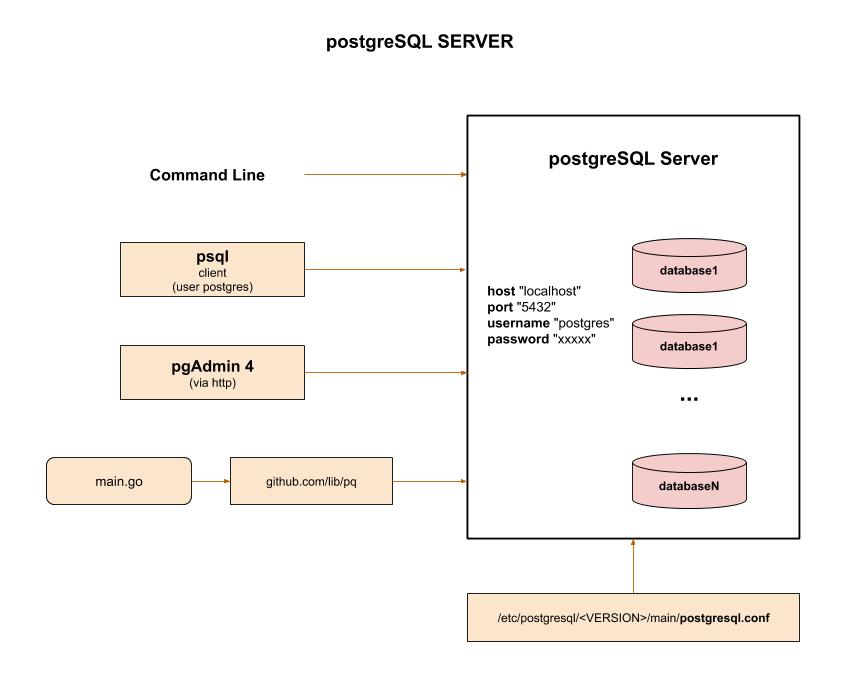
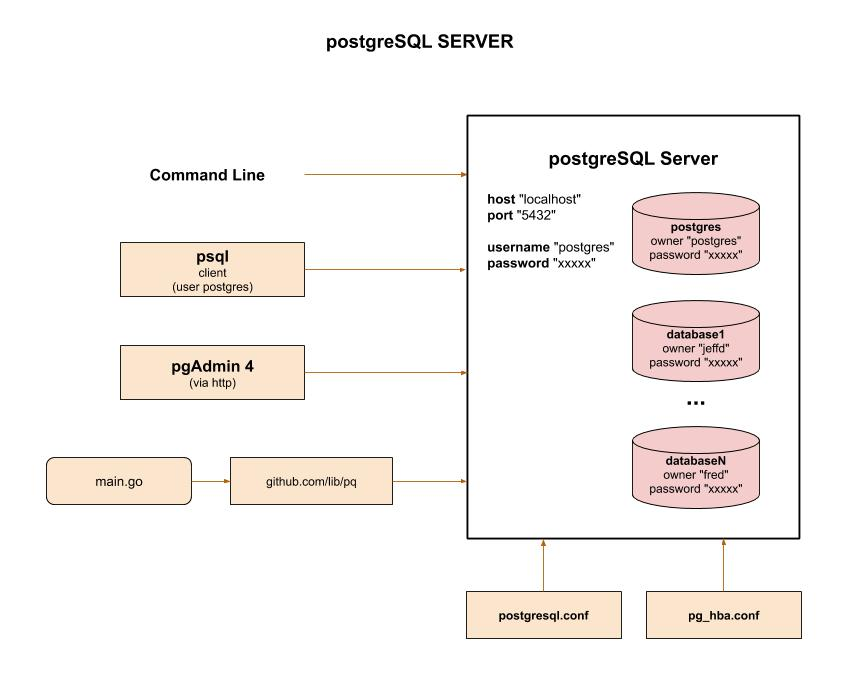
updating postgreSQL

Changed region(s): [[0.5825, 0.2771, 0.9198, 0.7698], [0.5519, 0.8622, 0.9505, 0.9545]]

diff --git a/software/development/software-architectures/database/postgreSQL-cheat-sheet/README.md b/software/development/software-architectures/database/postgreSQL-cheat-sheet/README.md
@@ -8,9 +8,10 @@ tl;dr,
 sudo /etc/init.d/postgresql start
 ps aux | grep -i postgres
 sudo -u postgres psql
-CREATE USER jeffd WITH ENCRYPTED PASSWORD 'password';
 CREATE USER jeffd;
+CREATE USER jeffd WITH ENCRYPTED PASSWORD 'password';
 CREATE DATABASE jeff_db_example OWNER jeffd;
+DROP DATABASE jeff_db_example3;
 \l
 \c jeff_db_example
 CREATE TABLE people (id int primary key not null, first_name text, last_name text);
@@ -105,6 +106,9 @@ Install from [here](https://www.pgadmin.org/download/)
 It will run in your browser such as
 [http://127.0.0.1:50088/browser/](http://127.0.0.1:50088/browser/)
 
+To connect, just use the username `postgres` and the password you
+will create below.
+
 ### CHECK VERSIONS
 
 Server,
@@ -125,40 +129,62 @@ pgadmin,
 pgadmin3 -v
 ```
 
-## CONFIGURE POSTGRES
+## CONFIGURE
 
-You may need to configure depending how you installed.
+The configuration files are,
 
-Enter postgres using psql as user postgres (yeah its a little confusing),
+* pg_hba.conf - Where Authentication is handled
+* postgresql.conf - Server config.
+
+Edit pg_hba.conf (macOS path is second one),
 
 ```bash
-sudo -u postgres psql postgres
-> \password postgres
-> "admin"
-> CREATE EXTENSION adminpack;
-> \q
+sudo su - postgres
+nano /etc/postgresql/10/main/pg_hba.conf
+nano /Library/PostgreSQL/11/data/pg_hba.conf
+```
+Make it look like,
+
+```txt
+# Local networks
+host    all     all     xx.xx.xx.xx/xx  md5
+# Example
+host    all     all     192.168.0.0/24  md5
+host    all     all     127.0.0.0/32    md5
 ```
 
-Check `pg_hba.conf`,
+Edit postgresql.conf (macOS path is second one),
 
 ```bash
-sudo nano /etc/postgresql/<VERSION>/main/pg_hba.conf
-sudo nano /etc/postgresql/10/main/pg_hba.conf
-```
-
-Edit `postgresql.conf`,
-
-```bash
-sudo nano /etc/postgresql/<VERSION>/main/postgresql.conf
+sudo su - postgres
 sudo nano /etc/postgresql/10/main/postgresql.conf
+nano /Library/PostgreSQL/11/data/postgresql.conf
 ```
 
 Replace `listen_addresses = 'localhost'` with `listen_addresses = '*'`
 
-To restart postgres server,
+Restart server and confirm postgres listening on port 5432,
+
+```txt
+netstat -ant | grep 5432
+tcp        0      0 0.0.0.0:5432            0.0.0.0:*               LISTEN
+tcp6       0      0 :::5432                 :::*                    LISTEN
+```
+
+Change both passwords for user postgres and the username postgres
+in psql,
+
+Change user password,
 
 ```bash
-sudo service postgresql restart
+sudo passwd postgres
+```
+
+Then change username in psql password,
+
+```bash
+sudo -u postgres psql
+ALTER USER postgres PASSWORD 'Password';
 ```
 
 ## START/STOP POSTGRESQL SERVER
@@ -170,6 +196,8 @@ ps aux | grep -i postgres
 ```
 
 ### LINUX
+
+Uses init.d,
 
 Start,
 
@@ -184,6 +212,8 @@ sudo /etc/init.d/postgresql stop
 ``` 
 
 ### MACOS
+
+Must be postgres user.
 
 Status,
 
@@ -205,8 +235,6 @@ Stop,
 sudo su - postgres
 /Library/PostgreSQL/11/bin/pg_ctl -D /Library/PostgreSQL/11/data stop -s -m fast
 ``` 
-
-/Library/PostgreSQL/11/bin/postgres
 
 ## USING PSQL (CLIENT)
 
@@ -246,12 +274,13 @@ Method 2 - Create user using command line without becoming user postgres,
 sudo -u postgres createuser jeffd
 ```
 
-Method 3 - Create user using psql (REMEMBER TO END WITH `;`),
+Method 3 (USER THIS ONE) - Create user using
+psql (REMEMBER TO END WITH `;`),
 
 ```bash
 sudo -u postgres psql
+CREATE USER jeffd WITH ENCRYPTED PASSWORD 'mypass';
 CREATE USER jeffd;
-CREATE USER jeffd WITH ENCRYPTED PASSWORD 'password';
 ```
 
 Check user was created,
@@ -278,11 +307,24 @@ Method 2 - Create database using command line without becoming user postgres,
 sudo -u postgres createdb --owner=jeffd jeff_db_example
 ```
 
-Method 3 - Create database using psql (REMEMBER TO END WITH `;`),
+Method 3 (USER THIS ONE) - Create database using
+psql (REMEMBER TO END WITH `;`),
 
 ```bash
 sudo -u postgres psql
 CREATE DATABASE jeff_db_example3 OWNER jeffd;
+```
+
+To drop a database,
+
+```bash
+DROP DATABASE jeff_db_example3;
+```
+
+Add a user to a database,
+
+```bash
+???
 ```
 
 List all databases from psql,
@@ -305,10 +347,11 @@ Then you can do things like create a table,
 
 ## CREATE A TABLE (YOUR SCHEMA)
 
-Some types you can do,
+Create table,
 
 ```bash
 CREATE TABLE people (id int primary key not null, first_name text, last_name text);
+GRANT ALL PRIVILEGES ON TABLE people TO jeffd;
 ```
 
 ## LIST TABLES
